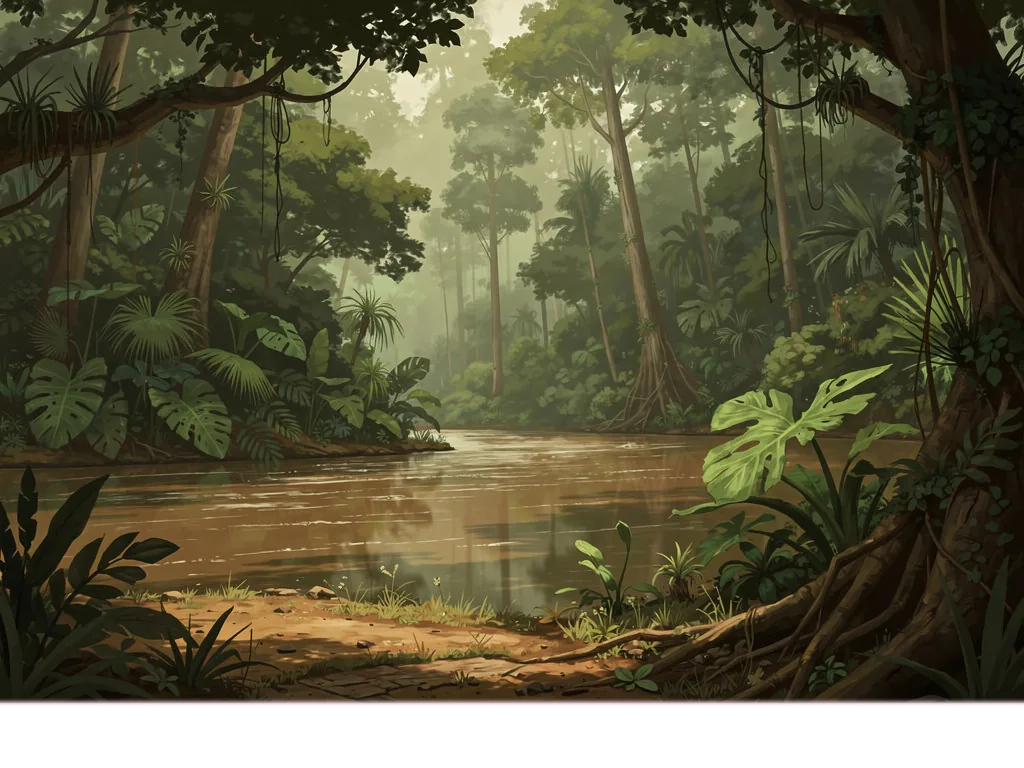
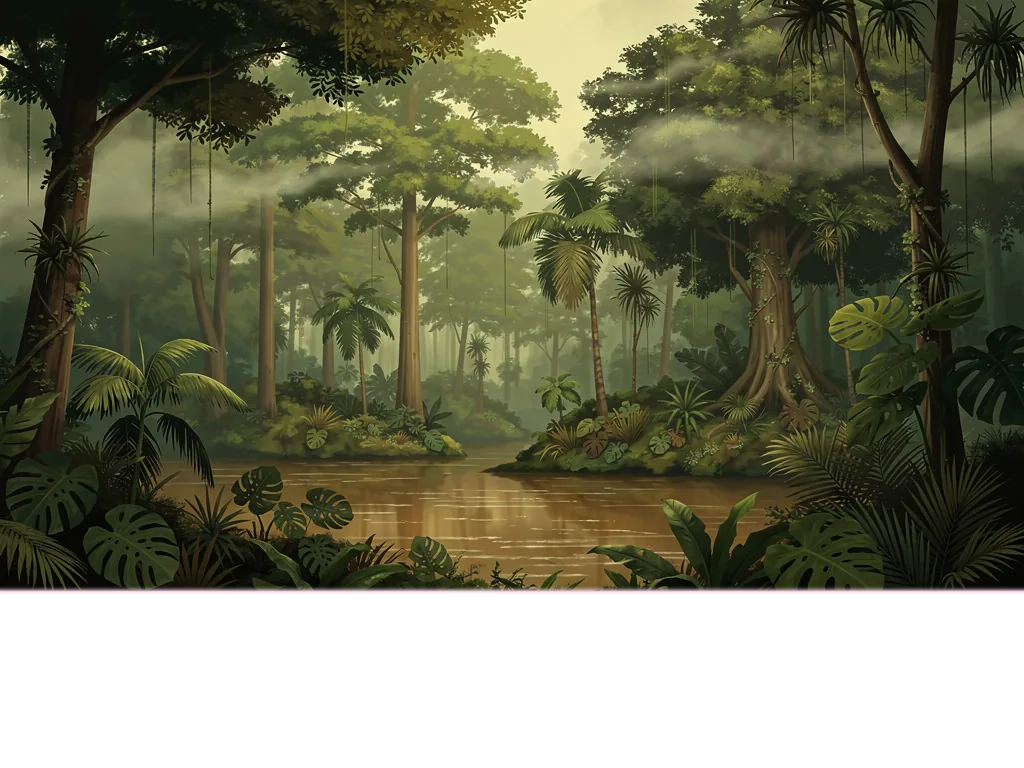
Selva biome-4 production-lock: Concept A v2 palette-match chain complete.
Assets:
- Sky-subject v7 Image 3: layered descent with murky jungle river middle, palette-continuity zone at lower-middle 20%, Palette C warm-saturated dominant.
- Plateau v7 Image 8: foreground understory band with mossy fallen branch, organic irregular top edge, dark humid palette matched to sky-subject foreground via RGB+hex palette block in prompt.
- Canopy v5 palette-match: painterly atmospheric canopy matching sky-subject upper zone + plateau painterly style. 100% opaque top zone (Image 4 was 75%), 90% reduction in specular hot-spots, organic integration with lower layers.

Pipeline settings (production-final):
- FRAMING_OFFSET (0, 0)
- PLATEAU_OFFSET (0, +40) for river breathing room
- PLATEAU_LUM_CLAMP 0.60 catches fine specular highlights
- CANOPY_LUM_CLAMP 0.65
- CANOPY_FEATHER 170-280
- CHROMA_TOLERANCE 130 (Selva painterly consistent)
- is_pinkish relaxed (r>160, b>80, g<150)

Architectural fix validated: palette-match at paint time (RGB+hex in prompts) replaces compositor tricks (feather-bridge, color-transfer, alpha-mask bridges) from abandoned Concept A v1 path. Layers now share palette natively; integration emerges from the paintings themselves, not from post-hoc alpha manipulation.

Gate 8 Selva: 6.93:1 body+display PASS (informational — F6 gradient is production scrim).

Cross-biome status: Apu + Puna + Yungas + Selva all production-locked. Ready for Paracas (biome 5, Proces page).

diff --git a/public/Backdrops/cross-biome-viewer.html b/public/Backdrops/cross-biome-viewer.html
@@ -141,21 +141,21 @@
   <td class="num info">3.36:1</td>
   <td class="num info">3.11:1</td>
   <td class="num info">4.39:1</td>
-  <td class="num info">3.88:1</td>
+  <td class="num info">4.24:1</td>
 </tr>
 <tr>
   <td>Production composite size (raw WebP q90)</td>
   <td class="num">91 KB</td>
   <td class="num">159 KB</td>
   <td class="num">140 KB</td>
-  <td class="num">166 KB</td>
+  <td class="num">202 KB</td>
 </tr>
 <tr>
   <td class="info">+55% scrim composite size (legacy preview)</td>
   <td class="num info">79 KB</td>
   <td class="num info">87 KB</td>
   <td class="num info">72 KB</td>
-  <td class="num info">89 KB</td>
+  <td class="num info">110 KB</td>
 </tr>
 </table>
 

diff --git a/scripts/process_selva.py b/scripts/process_selva.py
@@ -1,19 +1,21 @@
 """Chroma-key extraction + composite for Selva v4 layers (1024 UI pipeline).
 
+Concept A v2 palette-match build: sky-subject v7 Image 3 (layered descent
+with murky jungle river) + plateau v7 Image 8 (foreground understory band
+painted against an RGB/hex palette extracted from the sky-subject lower-
+middle zone) share Palette C so no post-hoc compositor bridge is needed
+between them. Canopy Image 4 reused unchanged from the earlier v1 batch.
+
 TOP framing geometry (Pad C second variation, vertical-mirror analogue of
 Yungas RIGHT-mirror). Canopy source renders opaque at image top with
 magenta bottom; composite at offset (0, 0) places canopy on canvas top.
-Empirically adjust to (0, -50) or (0, -100) if first run shows canopy
-drifting below the frame-top.
+Canopy pipeline keeps the known-good luminance clamp (0.65) + bottom-edge
+feather (y=150..260) from v1 that resolved top-strip rim-light hot-spots
+and softened the canopy-to-sky-subject atmospheric seam.
 
-Chroma tolerance bumped to 130 following Yungas precedent — painterly
-pastel-pink chroma rendered by flux-2-pro at 1024 UI needs looser bounds
-to catch fern/leaf silhouette transition pixels without removing legit
-painted content.
-
-Selva sky-subject is the B-fixed variant with a jungle river through the
-middle-ground. Chroma-strip compliance at 12.5% required front-loaded
-instruction in the prompt; single accepted variant committed to repo.
+Chroma tolerance 130 (Yungas precedent) — painterly pastel-pink chroma
+rendered by flux-2-pro at 1024 UI needs looser bounds to catch fern/leaf
+silhouette transition pixels without removing legit painted content.
 
 Owns the 4-pane cross-biome viewer HTML (supersedes the 3-pane from
 process_yungas.py). Loads Apu + Puna + Yungas baselines for comparison.
@@ -40,9 +42,31 @@ OUT_DIR = REPO / "public" / "Backdrops" / "selva" / "processed"
 CANVAS = (1024, 768)
 CHROMA_TOLERANCE = 130  # Yungas precedent for painterly pastel-pink chroma
 # TOP framing geometry: canopy source is already top-dominant at image top.
-# (0, 0) keeps image at original position, canopy lands on canvas-y=0..
-# Adjust to (0, -50) or (0, -100) if canopy drifts too far below top edge.
+# (0, 0) keeps image at original position, canopy lands on canvas-y=0..230.
 FRAMING_OFFSET = (0, 0)
+# Canopy luminance clamp — Flux over-renders bright rim-light / sunbeam
+# highlights on canopy top-edge (v1 user flagged glitching at composite
+# TOP 30px, 2,630 pixels lum>0.70). 0.65 cap preserves legitimate filtered-
+# sunbeam highlights while killing hot-spots.
+CANOPY_LUM_CLAMP = 0.65
+# Canopy bottom-edge atmospheric feather — applied pre-offset on layer
+# image-y coords. Softens canopy-to-sky-subject transition so the underlying
+# content reads as atmospheric depth rather than a hard stitch seam.
+# 170/280 (shifted +20 from 150/260) after user flagged semi-transparent
+# patches in canopy body at y=100..150 in the prior composite — extra
+# opacity headroom in the canopy mass before fade begins.
+CANOPY_FEATHER_START_Y = 170  # begin fade (layer image-y, pre-offset)
+CANOPY_FEATHER_END_Y   = 280  # fully transparent past this y
+# Plateau canvas offset — +40 down to give river scene more vertical
+# breathing room above the plateau and compress plateau vertical presence
+# slightly. v1 placed plateau at (0, 0); +40 on user feedback 2026-04-21.
+PLATEAU_OFFSET = (0, 40)
+# Plateau luminance clamp — catches subtle specular highlights on leaves
+# in the 0.60-0.70 lum range that show as visible white specks after
+# compositing. 0.55 was too tight (crushed legitimate warm highlights);
+# 0.60 catches speculars without touching the painterly warm-tone mass.
+# Applied unconditionally (no diagnostic-gated skip).
+PLATEAU_LUM_CLAMP = 0.60
 
 # Text zone kept same as Yungas (legacy reference only; F6 gradient handles
 # contrast architecturally, Gate 8 is informational).
@@ -53,15 +77,14 @@ SCRIM_OPACITY = 0.55
 SCRIM_COLOR = (26, 22, 18)
 
 SOURCES = {
-    # Sky-subject: bottom 10% magenta strip (B-fixed front-loaded compliance)
+    # Sky-subject: bottom 8-12% magenta strip (v7 Concept A front-loaded).
     "sky-subject":    (RAW_DIR / "selva-sky-subject.jpg",
                        (0.45, 0.93, 0.55, 0.99)),
-    # Plateau: opaque BOTTOM 12-15%, magenta TOP 85-88% (standard plateau
-    # structure — same as Apu/Puna/Yungas). Sample top-center for chroma.
+    # Plateau: opaque BOTTOM ~30%, magenta TOP ~70%. Sample top-center.
     "plateau":        (RAW_DIR / "selva-plateau.jpg",
                        (0.45, 0.05, 0.55, 0.15)),
     # Framing-canopy: TOP 20-30% opaque canopy, BOTTOM 70-80% magenta.
-    # NEW structure (first TOP framing in project). Sample bottom-center.
+    # First TOP framing in project. Sample bottom-center for chroma.
     "framing-canopy": (RAW_DIR / "selva-framing-canopy.jpg",
                        (0.40, 0.80, 0.60, 0.95)),
 }
@@ -98,6 +121,105 @@ def remove_chroma(img_path: Path, target, tolerance):
     mask_img = mask_img.filter(ImageFilter.GaussianBlur(2))
     data[..., 3] = np.array(mask_img)
     return Image.fromarray(data.astype(np.uint8), mode="RGBA")
+
+
+def clamp_luminance(img: Image.Image, max_lum: float,
+                    diagnostic_zone=None) -> Image.Image:
+    """Clamp pixel BT.709 luminance to max_lum (normalized 0..1), preserve hue.
+
+    Pixels exceeding the threshold have RGB channels uniformly scaled down
+    so resulting pixel luminance equals max_lum * 255. Alpha preserved.
+    diagnostic_zone = (y1, y2, x1, x2) prints pre/post bright-pixel count.
+    """
+    arr = np.array(img).astype(np.float64)
+    rgb = arr[..., :3]
+    lum = 0.2126 * rgb[..., 0] + 0.7152 * rgb[..., 1] + 0.0722 * rgb[..., 2]
+    lum_norm = lum / 255.0
+
+    pre_count = None
+    if diagnostic_zone is not None:
+        y1, y2, x1, x2 = diagnostic_zone
+        pre_count = int((lum_norm[y1:y2, x1:x2] > max_lum).sum())
+        print(f"    pre-clamp zone y=[{y1}..{y2}), x=[{x1}..{x2}): "
+              f"{pre_count} pixels lum>{max_lum:.2f}")
+
+    scale = np.where(lum_norm > max_lum,
+                     (max_lum * 255.0) / np.maximum(lum, 1.0), 1.0)
+    arr[..., :3] = np.clip(rgb * scale[..., np.newaxis], 0, 255)
+
+    if diagnostic_zone is not None:
+        new_rgb = arr[..., :3]
+        new_lum = (0.2126 * new_rgb[..., 0] + 0.7152 * new_rgb[..., 1]
+                   + 0.0722 * new_rgb[..., 2]) / 255.0
+        post_count = int((new_lum[y1:y2, x1:x2] > max_lum).sum())
+        print(f"    post-clamp zone: {post_count} pixels lum>{max_lum:.2f} "
+              f"(reduced by {pre_count - post_count}, cap = {max_lum:.2f})")
+
+    return Image.fromarray(arr.astype(np.uint8), mode="RGBA")
+
+
+def feather_edge(img: Image.Image, edge: str, fade_start: int,
+                 fade_end: int, diagnostic: bool = True) -> Image.Image:
+    """Vertical alpha gradient feather, preserving silhouette transparency.
+
+    edge='bottom': opaque above fade_start, linear fade 1->0 through
+        fade_end; past fade_end fully transparent. Requires
+        fade_end > fade_start.
+    edge='top':    opaque below fade_start, linear fade 1->0 reversed
+        through fade_end; above fade_end fully transparent. Requires
+        fade_start > fade_end.
+    """
+    arr = np.array(img).astype(np.float64)
+    h = arr.shape[0]
+    ys = np.arange(h)
+    gradient = np.ones(h, dtype=np.float64)
+
+    if edge == 'bottom':
+        assert fade_end > fade_start, \
+            f"bottom edge needs fade_end > fade_start (got {fade_start}, {fade_end})"
+        fade_mask = (ys >= fade_start) & (ys < fade_end)
+        gradient[fade_mask] = 1.0 - (ys[fade_mask] - fade_start) / (fade_end - fade_start)
+        gradient[ys >= fade_end] = 0.0
+        bands = [
+            (0, fade_start, "above fade (full-opacity target)"),
+            (fade_start, fade_end, "fade zone"),
+            (fade_end, h, "below fade (transparent target)"),
+        ]
+    elif edge == 'top':
+        assert fade_start > fade_end, \
+            f"top edge needs fade_start > fade_end (got {fade_start}, {fade_end})"
+        fade_mask = (ys >= fade_end) & (ys < fade_start)
+        gradient[fade_mask] = (ys[fade_mask] - fade_end) / (fade_start - fade_end)
+        gradient[ys < fade_end] = 0.0
+        bands = [
+            (0, fade_end, "above fade (transparent target)"),
+            (fade_end, fade_start, "fade zone"),
+            (fade_start, h, "below fade (full-opacity target)"),
+        ]
+    else:
+        raise ValueError(f"edge must be 'bottom' or 'top', got {edge!r}")
+
+    if diagnostic:
+        pre_alpha = arr[..., 3].copy()
+        print(f"    pre-feather ({edge}, fade {fade_start}->{fade_end}) alpha opaque% per band:")
+        for y1, y2, label in bands:
+            zone = pre_alpha[y1:y2]
+            pct = (zone > 240).sum() * 100.0 / max(zone.size, 1)
+            print(f"      y=[{y1}..{y2}) {label}: {pct:.1f}%")
+
+    arr[..., 3] = np.clip(arr[..., 3] * gradient[:, np.newaxis], 0, 255)
+
+    if diagnostic:
+        post_alpha = arr[..., 3]
+        affected = int(((pre_alpha - post_alpha) > 1).sum())
+        print(f"    post-feather: {affected:,} pixels had alpha reduced")
+        print("    post-feather alpha opaque% per band:")
+        for y1, y2, label in bands:
+            zone = post_alpha[y1:y2]
+            pct = (zone > 240).sum() * 100.0 / max(zone.size, 1)
+            print(f"      y=[{y1}..{y2}) {label}: {pct:.1f}%")
+
+    return Image.fromarray(arr.astype(np.uint8), mode="RGBA")
 
 
 def process_layer(img_path: Path, sample_region, name: str) -> Image.Image:
@@ -494,6 +616,25 @@ def main() -> None:
     processed = {}
     for name, (path, sample) in SOURCES.items():
         layer = process_layer(path, sample, name)
+        if name == "plateau":
+            # Unconditional specular clamp at 0.60 — catches subtle white
+            # highlights on leaves (lum 0.60-0.70 range) visible after
+            # compositing, below earlier 0.70 diagnostic-gated threshold.
+            layer = clamp_luminance(layer, PLATEAU_LUM_CLAMP,
+                                    diagnostic_zone=(624, 686, 387, 660))
+        elif name == "framing-canopy":
+            # Top-strip rim-light hot-spot cap (Image 4 v1 had 2,630 pixels
+            # lum>0.70 at y=0..30; canopy v5 palette-match should have
+            # fewer, but clamp retained as insurance).
+            layer = clamp_luminance(layer, CANOPY_LUM_CLAMP,
+                                    diagnostic_zone=(0, 30, 0, 1024))
+            # Bottom-edge alpha feather — softens canopy-to-sky-subject seam.
+            layer = feather_edge(layer, 'bottom',
+                                 CANOPY_FEATHER_START_Y,
+                                 CANOPY_FEATHER_END_Y)
+        # Note: sky-subject intentionally raw. Concept A v2 palette-match
+        # prompt chain paints all three layers to share Palette C anchors,
+        # so no sky-subject feather-bridge is needed between them.
         out_path = OUT_DIR / f"selva-{name}.webp"
         layer.save(out_path, "WebP", quality=82, method=6)
         kb = out_path.stat().st_size / 1024
@@ -502,7 +643,7 @@ def main() -> None:
 
     print(f"\nSTEP 2 - composite TOP-framing (canopy @ offset {FRAMING_OFFSET})")
     sky = place(processed["sky-subject"], (0, 0))
-    plateau = place(processed["plateau"], (0, 0))
+    plateau = place(processed["plateau"], PLATEAU_OFFSET)
     canopy = place(processed["framing-canopy"], FRAMING_OFFSET)
     composite = composite_stack([sky, plateau, canopy])
     composite_path = OUT_DIR / "selva-composite.webp"
